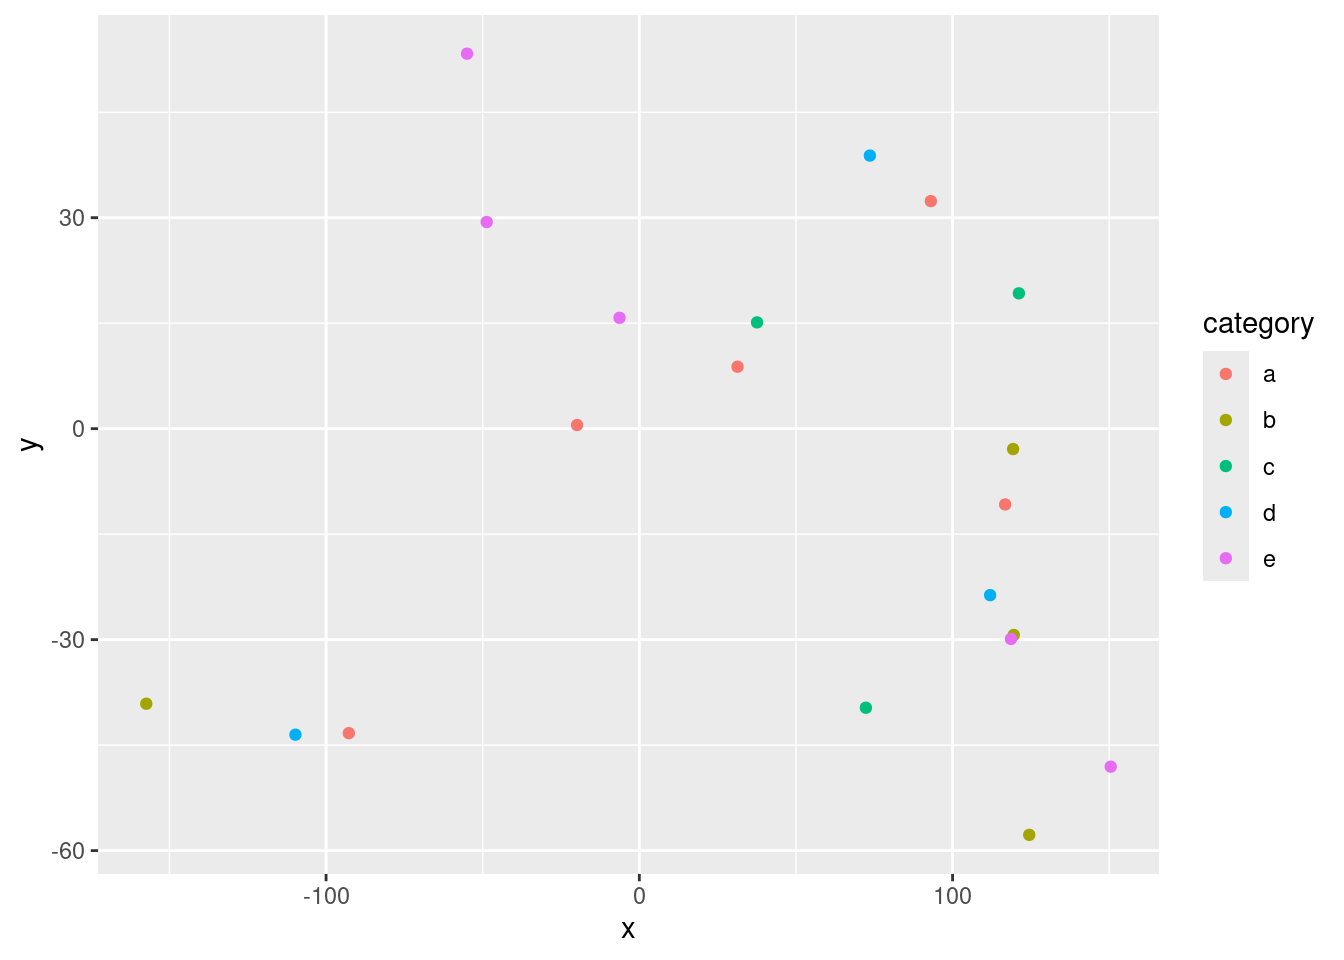
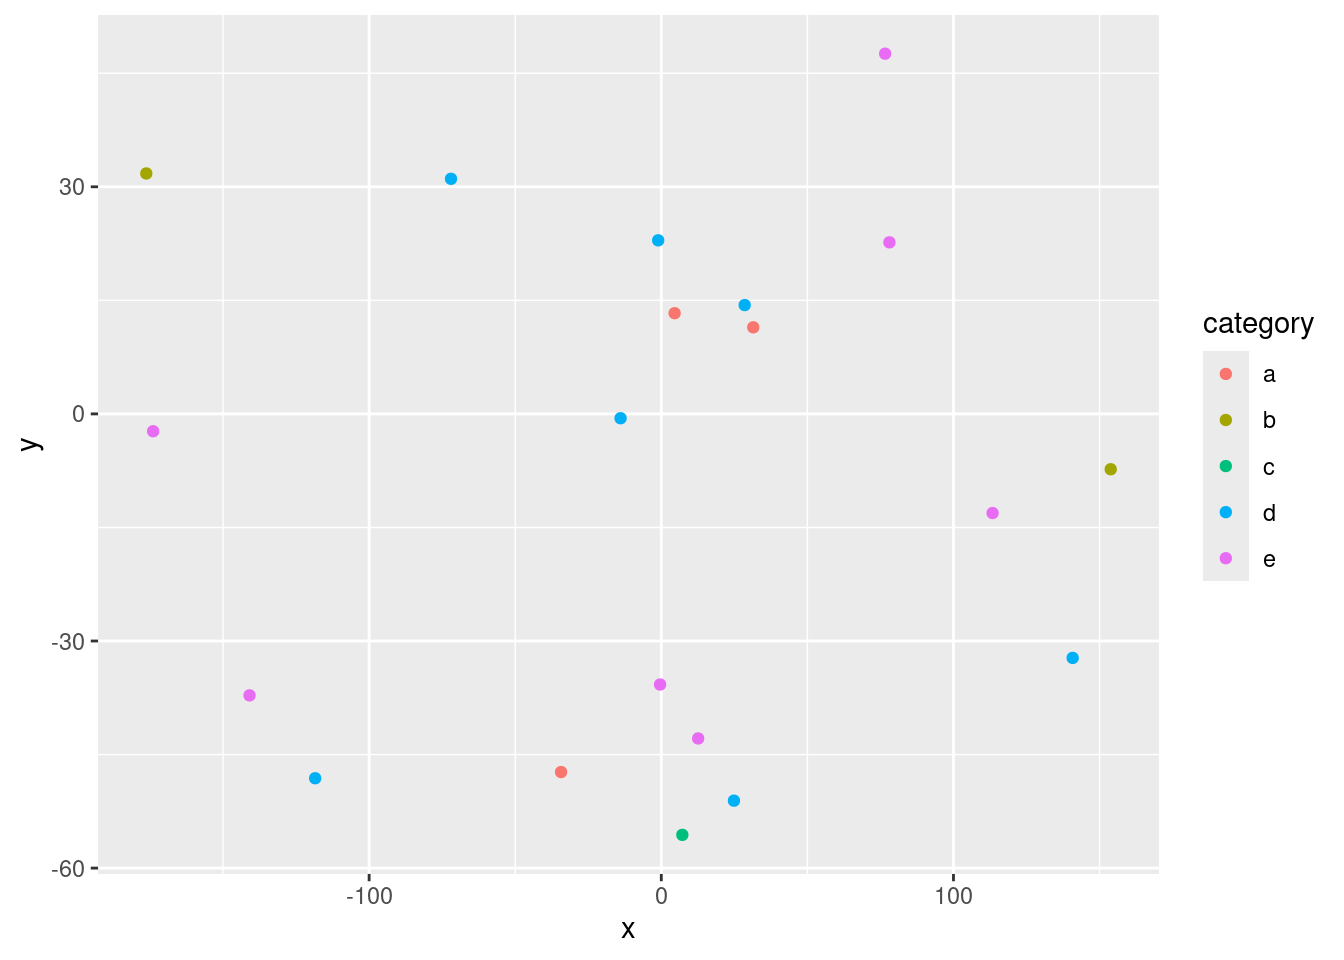
Built site for gh-pages

diff --git a/index.html b/index.html
@@ -6,10 +6,10 @@
 
 <meta name="viewport" content="width=device-width, initial-scale=1.0, user-scalable=yes">
 
-<meta name="author" content="Your name here">
-<meta name="dcterms.date" content="2024-11-06">
+<meta name="author" content="Swetha Sakhamuri">
+<meta name="dcterms.date" content="2024-11-11">
 
-<title>My Final Project Template – GEO511_FinalProject</title>
+<title>Comparing Unemployment Rates Across U.S. States During Economic Recessions – GEO511_FinalProject</title>
 <style>
 code{white-space: pre-wrap;}
 span.smallcaps{font-variant: small-caps;}
@@ -167,8 +167,7 @@ pre > code.sourceCode > span > a:first-child::before { text-decoration: underlin
 
 <header id="title-block-header" class="quarto-title-block default">
 <div class="quarto-title">
-<h1 class="title">My Final Project Template</h1>
-<p class="subtitle lead">Subtitle here if desired</p>
+<h1 class="title">Comparing Unemployment Rates Across U.S. States During Economic Recessions</h1>
 </div>
 
 
@@ -178,14 +177,14 @@ pre > code.sourceCode > span > a:first-child::before { text-decoration: underlin
     <div>
     <div class="quarto-title-meta-heading">Author</div>
     <div class="quarto-title-meta-contents">
-             <p>Your name here </p>
+             <p>Swetha Sakhamuri </p>
           </div>
   </div>
     
     <div>
     <div class="quarto-title-meta-heading">Published</div>
     <div class="quarto-title-meta-contents">
-      <p class="date">November 6, 2024</p>
+      <p class="date">November 11, 2024</p>
     </div>
   </div>
   
@@ -266,74 +265,74 @@ pre > code.sourceCode > span > a:first-child::before { text-decoration: underlin
 </thead>
 <tbody>
 <tr class="odd">
-<td style="text-align: center;">37.59</td>
-<td style="text-align: center;">15.11</td>
-<td style="text-align: center;">15.77</td>
-<td style="text-align: center;">c</td>
+<td style="text-align: center;">-176.28</td>
+<td style="text-align: center;">31.76</td>
+<td style="text-align: center;">7.90</td>
+<td style="text-align: center;">b</td>
 <td style="text-align: center;">0.04</td>
 </tr>
 <tr class="even">
-<td style="text-align: center;">150.49</td>
-<td style="text-align: center;">-48.07</td>
-<td style="text-align: center;">13.10</td>
-<td style="text-align: center;">e</td>
-<td style="text-align: center;">0.46</td>
-</tr>
-<tr class="odd">
-<td style="text-align: center;">119.54</td>
-<td style="text-align: center;">-29.34</td>
-<td style="text-align: center;">9.69</td>
-<td style="text-align: center;">b</td>
-<td style="text-align: center;">1.96</td>
-</tr>
-<tr class="even">
-<td style="text-align: center;">72.33</td>
-<td style="text-align: center;">-39.68</td>
-<td style="text-align: center;">12.56</td>
-<td style="text-align: center;">c</td>
-<td style="text-align: center;">0.68</td>
-</tr>
-<tr class="odd">
-<td style="text-align: center;">121.16</td>
-<td style="text-align: center;">19.25</td>
-<td style="text-align: center;">14.26</td>
-<td style="text-align: center;">c</td>
-<td style="text-align: center;">0.02</td>
-</tr>
-<tr class="even">
-<td style="text-align: center;">93.06</td>
-<td style="text-align: center;">32.36</td>
-<td style="text-align: center;">16.21</td>
+<td style="text-align: center;">4.56</td>
+<td style="text-align: center;">13.30</td>
+<td style="text-align: center;">6.25</td>
 <td style="text-align: center;">a</td>
-<td style="text-align: center;">1.34</td>
+<td style="text-align: center;">1.11</td>
 </tr>
 <tr class="odd">
-<td style="text-align: center;">118.63</td>
-<td style="text-align: center;">-29.91</td>
-<td style="text-align: center;">19.36</td>
-<td style="text-align: center;">e</td>
-<td style="text-align: center;">0.55</td>
-</tr>
-<tr class="even">
-<td style="text-align: center;">-19.89</td>
-<td style="text-align: center;">0.52</td>
-<td style="text-align: center;">18.02</td>
-<td style="text-align: center;">a</td>
-<td style="text-align: center;">-0.09</td>
-</tr>
-<tr class="odd">
-<td style="text-align: center;">-48.72</td>
-<td style="text-align: center;">29.39</td>
-<td style="text-align: center;">14.17</td>
-<td style="text-align: center;">e</td>
-<td style="text-align: center;">-0.74</td>
-</tr>
-<tr class="even">
-<td style="text-align: center;">-109.78</td>
-<td style="text-align: center;">-43.51</td>
-<td style="text-align: center;">16.05</td>
+<td style="text-align: center;">28.54</td>
+<td style="text-align: center;">14.38</td>
+<td style="text-align: center;">7.20</td>
 <td style="text-align: center;">d</td>
-<td style="text-align: center;">-0.21</td>
+<td style="text-align: center;">-0.93</td>
+</tr>
+<tr class="even">
+<td style="text-align: center;">-118.47</td>
+<td style="text-align: center;">-48.13</td>
+<td style="text-align: center;">14.79</td>
+<td style="text-align: center;">d</td>
+<td style="text-align: center;">-0.58</td>
+</tr>
+<tr class="odd">
+<td style="text-align: center;">78.08</td>
+<td style="text-align: center;">22.66</td>
+<td style="text-align: center;">11.01</td>
+<td style="text-align: center;">e</td>
+<td style="text-align: center;">-0.35</td>
+</tr>
+<tr class="even">
+<td style="text-align: center;">-0.42</td>
+<td style="text-align: center;">-35.75</td>
+<td style="text-align: center;">18.86</td>
+<td style="text-align: center;">e</td>
+<td style="text-align: center;">-0.35</td>
+</tr>
+<tr class="odd">
+<td style="text-align: center;">-173.93</td>
+<td style="text-align: center;">-2.29</td>
+<td style="text-align: center;">18.50</td>
+<td style="text-align: center;">e</td>
+<td style="text-align: center;">1.69</td>
+</tr>
+<tr class="even">
+<td style="text-align: center;">-1.07</td>
+<td style="text-align: center;">22.93</td>
+<td style="text-align: center;">14.34</td>
+<td style="text-align: center;">d</td>
+<td style="text-align: center;">-0.06</td>
+</tr>
+<tr class="odd">
+<td style="text-align: center;">-34.30</td>
+<td style="text-align: center;">-47.31</td>
+<td style="text-align: center;">14.90</td>
+<td style="text-align: center;">a</td>
+<td style="text-align: center;">-0.63</td>
+</tr>
+<tr class="even">
+<td style="text-align: center;">12.61</td>
+<td style="text-align: center;">-42.87</td>
+<td style="text-align: center;">6.74</td>
+<td style="text-align: center;">e</td>
+<td style="text-align: center;">-0.82</td>
 </tr>
 </tbody>
 </table>
@@ -355,8 +354,8 @@ pre > code.sourceCode > span > a:first-child::before { text-decoration: underlin
 <span id="cb5-4"><a href="#cb5-4" aria-hidden="true" tabindex="-1"></a>  <span class="fu">addPopups</span>(<span class="sc">~</span>x[<span class="dv">2</span>], <span class="sc">~</span>y[<span class="dv">2</span>], <span class="st">"Random popup"</span>)</span>
 <span id="cb5-5"><a href="#cb5-5" aria-hidden="true" tabindex="-1"></a>m  <span class="co"># a map with the default OSM tile layer</span></span></code><button title="Copy to Clipboard" class="code-copy-button"><i class="bi"></i></button></pre></div>
 <div class="cell-output-display">
-<div class="leaflet html-widget html-fill-item" id="htmlwidget-bbe6ffa9a1049d748211" style="width:100%;height:325px;"></div>
-<script type="application/json" data-for="htmlwidget-bbe6ffa9a1049d748211">{"x":{"options":{"crs":{"crsClass":"L.CRS.EPSG3857","code":null,"proj4def":null,"projectedBounds":null,"options":{}}},"calls":[{"method":"addTiles","args":["https://{s}.tile.openstreetmap.org/{z}/{x}/{y}.png",null,null,{"minZoom":0,"maxZoom":18,"tileSize":256,"subdomains":"abc","errorTileUrl":"","tms":false,"noWrap":false,"zoomOffset":0,"zoomReverse":false,"opacity":1,"zIndex":1,"detectRetina":false,"attribution":"&copy; <a href=\"https://openstreetmap.org/copyright/\">OpenStreetMap<\/a>,  <a href=\"https://opendatacommons.org/licenses/odbl/\">ODbL<\/a>"}]},{"method":"addCircleMarkers","args":[[15.10993536561728,-48.06656073778868,-29.33788790367544,-39.68395683914423,19.24610540270805,32.35853313468397,-29.90508050657809,0.5187126249074936,29.38594518229365,-43.5135320853442,38.8320323266089,8.809488695114851,15.76741084456444,-10.77996748499572,-57.76436311192811,-2.898594103753567,-43.30172566697001,-39.11614148877561,53.32503352314234,-23.67119958624244],[37.5852922629565,150.4861529264599,119.5380512438715,72.32871810905635,121.1609531566501,93.05984032340348,118.6318447161466,-19.88816611468792,-48.72300015762448,-109.7815835103393,73.59345006756485,31.35417262092233,-6.322231851518154,116.781377568841,124.4692703895271,119.3201016448438,-92.73617648519576,-157.3911190778017,-55.00099676661193,111.9839021656662],[15.77261005295441,13.10039540287107,9.685365565819666,12.56128217210062,14.25906562595628,16.2070850818418,19.36443598940969,18.01569579867646,14.17184511316009,16.05102470028214,7.827789282891899,15.87897410965525,5.39779506623745,14.01435973122716,8.860516084823757,19.00504677556455,10.72762174298987,10.92059776536189,6.688445116160437,16.40069150715135],null,null,{"interactive":true,"className":"","stroke":true,"color":["c","e","b","c","c","a","e","a","e","d","d","a","e","a","b","b","a","b","e","d"],"weight":5,"opacity":0.5,"fill":true,"fillColor":["c","e","b","c","c","a","e","a","e","d","d","a","e","a","b","b","a","b","e","d"],"fillOpacity":0.2},null,null,null,null,null,{"interactive":false,"permanent":false,"direction":"auto","opacity":1,"offset":[0,0],"textsize":"10px","textOnly":false,"className":"","sticky":true},null]},{"method":"addPopups","args":[-48.06656073778868,150.4861529264599,"Random popup",null,null,{"maxWidth":300,"minWidth":50,"autoPan":true,"keepInView":false,"closeButton":true,"className":""}]}],"limits":{"lat":[-57.76436311192811,53.32503352314234],"lng":[-157.3911190778017,150.4861529264599]}},"evals":[],"jsHooks":[]}</script>
+<div class="leaflet html-widget html-fill-item" id="htmlwidget-d61dc6a2be07eb56e08c" style="width:100%;height:325px;"></div>
+<script type="application/json" data-for="htmlwidget-d61dc6a2be07eb56e08c">{"x":{"options":{"crs":{"crsClass":"L.CRS.EPSG3857","code":null,"proj4def":null,"projectedBounds":null,"options":{}}},"calls":[{"method":"addTiles","args":["https://{s}.tile.openstreetmap.org/{z}/{x}/{y}.png",null,null,{"minZoom":0,"maxZoom":18,"tileSize":256,"subdomains":"abc","errorTileUrl":"","tms":false,"noWrap":false,"zoomOffset":0,"zoomReverse":false,"opacity":1,"zIndex":1,"detectRetina":false,"attribution":"&copy; <a href=\"https://openstreetmap.org/copyright/\">OpenStreetMap<\/a>,  <a href=\"https://opendatacommons.org/licenses/odbl/\">ODbL<\/a>"}]},{"method":"addCircleMarkers","args":[[31.76191890612245,13.3029961399734,14.37612061388791,-48.12995416112244,22.6606157887727,-35.74894621968269,-2.291976856067777,22.928123222664,-47.31113338842988,-42.87123293615878,-55.60895822010934,-37.18081631697714,-13.09968028217554,31.05464385822415,-51.09273405745625,-7.311647236347198,47.58616668172181,11.43845007754862,-32.23209053277969,-0.5714384838938713],[-176.2766691762954,4.558083470910788,28.5420092381537,-118.4746175631881,78.08351305313408,-0.4162616562098265,-173.9268659055233,-1.067150132730603,-34.30435166694224,12.61348435655236,7.20016454346478,-140.9373810421675,113.390019312501,-71.97661480866373,24.86289747990668,153.8249035924673,76.61893280223012,31.47816904820502,140.7980051636696,-13.93952306360006],[7.898215311579406,6.24948448734358,7.197982127545401,14.78739154641517,11.00905966595747,18.86326365638524,18.50093286600895,14.33500166633166,14.89683895255439,6.740612694993615,12.05836374196224,19.8508822824806,6.687324228696525,5.239038645522669,13.27083531999961,19.60964723606594,19.70093050273135,14.58236970938742,12.94192609027959,18.57848386163823],null,null,{"interactive":true,"className":"","stroke":true,"color":["b","a","d","d","e","e","e","d","a","e","c","e","e","d","d","b","e","a","d","d"],"weight":5,"opacity":0.5,"fill":true,"fillColor":["b","a","d","d","e","e","e","d","a","e","c","e","e","d","d","b","e","a","d","d"],"fillOpacity":0.2},null,null,null,null,null,{"interactive":false,"permanent":false,"direction":"auto","opacity":1,"offset":[0,0],"textsize":"10px","textOnly":false,"className":"","sticky":true},null]},{"method":"addPopups","args":[13.3029961399734,4.558083470910788,"Random popup",null,null,{"maxWidth":300,"minWidth":50,"autoPan":true,"keepInView":false,"closeButton":true,"className":""}]}],"limits":{"lat":[-55.60895822010934,47.58616668172181],"lng":[-176.2766691762954,153.8249035924673]}},"evals":[],"jsHooks":[]}</script>
 <p>Map of completely random data</p>
 </div>
 </div>
@@ -379,8 +378,8 @@ pre > code.sourceCode > span > a:first-child::before { text-decoration: underlin
 <span id="cb7-2"><a href="#cb7-2" aria-hidden="true" tabindex="-1"></a><span class="fu">dygraph</span>(nhtemp, <span class="at">main =</span> <span class="st">"New Haven Temperatures"</span>) <span class="sc">|&gt;</span> </span>
 <span id="cb7-3"><a href="#cb7-3" aria-hidden="true" tabindex="-1"></a>  <span class="fu">dyRangeSelector</span>(<span class="at">dateWindow =</span> <span class="fu">c</span>(<span class="st">"1920-01-01"</span>, <span class="st">"1960-01-01"</span>)) </span></code><button title="Copy to Clipboard" class="code-copy-button"><i class="bi"></i></button></pre></div>
 <div class="cell-output-display">
-<div class="dygraphs html-widget html-fill-item" id="htmlwidget-65deb66ed89df903e80d" style="width:100%;height:464px;"></div>
-<script type="application/json" data-for="htmlwidget-65deb66ed89df903e80d">{"x":{"attrs":{"title":"New Haven Temperatures","labels":["year","V1"],"legend":"auto","retainDateWindow":false,"axes":{"x":{"pixelsPerLabel":60}},"showRangeSelector":true,"dateWindow":["1920-01-01T00:00:00.000Z","1960-01-01T00:00:00.000Z"],"rangeSelectorHeight":40,"rangeSelectorPlotFillColor":" #A7B1C4","rangeSelectorPlotStrokeColor":"#808FAB","interactionModel":"Dygraph.Interaction.defaultModel"},"scale":"yearly","annotations":[],"shadings":[],"events":[],"format":"date","data":[["1912-01-01T00:00:00.000Z","1913-01-01T00:00:00.000Z","1914-01-01T00:00:00.000Z","1915-01-01T00:00:00.000Z","1916-01-01T00:00:00.000Z","1917-01-01T00:00:00.000Z","1918-01-01T00:00:00.000Z","1919-01-01T00:00:00.000Z","1920-01-01T00:00:00.000Z","1921-01-01T00:00:00.000Z","1922-01-01T00:00:00.000Z","1923-01-01T00:00:00.000Z","1924-01-01T00:00:00.000Z","1925-01-01T00:00:00.000Z","1926-01-01T00:00:00.000Z","1927-01-01T00:00:00.000Z","1928-01-01T00:00:00.000Z","1929-01-01T00:00:00.000Z","1930-01-01T00:00:00.000Z","1931-01-01T00:00:00.000Z","1932-01-01T00:00:00.000Z","1933-01-01T00:00:00.000Z","1934-01-01T00:00:00.000Z","1935-01-01T00:00:00.000Z","1936-01-01T00:00:00.000Z","1937-01-01T00:00:00.000Z","1938-01-01T00:00:00.000Z","1939-01-01T00:00:00.000Z","1940-01-01T00:00:00.000Z","1941-01-01T00:00:00.000Z","1942-01-01T00:00:00.000Z","1943-01-01T00:00:00.000Z","1944-01-01T00:00:00.000Z","1945-01-01T00:00:00.000Z","1946-01-01T00:00:00.000Z","1947-01-01T00:00:00.000Z","1948-01-01T00:00:00.000Z","1949-01-01T00:00:00.000Z","1950-01-01T00:00:00.000Z","1951-01-01T00:00:00.000Z","1952-01-01T00:00:00.000Z","1953-01-01T00:00:00.000Z","1954-01-01T00:00:00.000Z","1955-01-01T00:00:00.000Z","1956-01-01T00:00:00.000Z","1957-01-01T00:00:00.000Z","1958-01-01T00:00:00.000Z","1959-01-01T00:00:00.000Z","1960-01-01T00:00:00.000Z","1961-01-01T00:00:00.000Z","1962-01-01T00:00:00.000Z","1963-01-01T00:00:00.000Z","1964-01-01T00:00:00.000Z","1965-01-01T00:00:00.000Z","1966-01-01T00:00:00.000Z","1967-01-01T00:00:00.000Z","1968-01-01T00:00:00.000Z","1969-01-01T00:00:00.000Z","1970-01-01T00:00:00.000Z","1971-01-01T00:00:00.000Z"],[49.9,52.3,49.4,51.1,49.4,47.9,49.8,50.9,49.3,51.9,50.8,49.6,49.3,50.6,48.4,50.7,50.9,50.6,51.5,52.8,51.8,51.1,49.8,50.2,50.4,51.6,51.8,50.9,48.8,51.7,51,50.6,51.7,51.5,52.1,51.3,51,54,51.4,52.7,53.1,54.6,52,52,50.9,52.6,50.2,52.6,51.6,51.9,50.5,50.9,51.7,51.4,51.7,50.8,51.9,51.8,51.9,53]]},"evals":["attrs.interactionModel"],"jsHooks":[]}</script>
+<div class="dygraphs html-widget html-fill-item" id="htmlwidget-24e14539c765432b93f8" style="width:100%;height:464px;"></div>
+<script type="application/json" data-for="htmlwidget-24e14539c765432b93f8">{"x":{"attrs":{"title":"New Haven Temperatures","labels":["year","V1"],"legend":"auto","retainDateWindow":false,"axes":{"x":{"pixelsPerLabel":60}},"showRangeSelector":true,"dateWindow":["1920-01-01T00:00:00.000Z","1960-01-01T00:00:00.000Z"],"rangeSelectorHeight":40,"rangeSelectorPlotFillColor":" #A7B1C4","rangeSelectorPlotStrokeColor":"#808FAB","interactionModel":"Dygraph.Interaction.defaultModel"},"scale":"yearly","annotations":[],"shadings":[],"events":[],"format":"date","data":[["1912-01-01T00:00:00.000Z","1913-01-01T00:00:00.000Z","1914-01-01T00:00:00.000Z","1915-01-01T00:00:00.000Z","1916-01-01T00:00:00.000Z","1917-01-01T00:00:00.000Z","1918-01-01T00:00:00.000Z","1919-01-01T00:00:00.000Z","1920-01-01T00:00:00.000Z","1921-01-01T00:00:00.000Z","1922-01-01T00:00:00.000Z","1923-01-01T00:00:00.000Z","1924-01-01T00:00:00.000Z","1925-01-01T00:00:00.000Z","1926-01-01T00:00:00.000Z","1927-01-01T00:00:00.000Z","1928-01-01T00:00:00.000Z","1929-01-01T00:00:00.000Z","1930-01-01T00:00:00.000Z","1931-01-01T00:00:00.000Z","1932-01-01T00:00:00.000Z","1933-01-01T00:00:00.000Z","1934-01-01T00:00:00.000Z","1935-01-01T00:00:00.000Z","1936-01-01T00:00:00.000Z","1937-01-01T00:00:00.000Z","1938-01-01T00:00:00.000Z","1939-01-01T00:00:00.000Z","1940-01-01T00:00:00.000Z","1941-01-01T00:00:00.000Z","1942-01-01T00:00:00.000Z","1943-01-01T00:00:00.000Z","1944-01-01T00:00:00.000Z","1945-01-01T00:00:00.000Z","1946-01-01T00:00:00.000Z","1947-01-01T00:00:00.000Z","1948-01-01T00:00:00.000Z","1949-01-01T00:00:00.000Z","1950-01-01T00:00:00.000Z","1951-01-01T00:00:00.000Z","1952-01-01T00:00:00.000Z","1953-01-01T00:00:00.000Z","1954-01-01T00:00:00.000Z","1955-01-01T00:00:00.000Z","1956-01-01T00:00:00.000Z","1957-01-01T00:00:00.000Z","1958-01-01T00:00:00.000Z","1959-01-01T00:00:00.000Z","1960-01-01T00:00:00.000Z","1961-01-01T00:00:00.000Z","1962-01-01T00:00:00.000Z","1963-01-01T00:00:00.000Z","1964-01-01T00:00:00.000Z","1965-01-01T00:00:00.000Z","1966-01-01T00:00:00.000Z","1967-01-01T00:00:00.000Z","1968-01-01T00:00:00.000Z","1969-01-01T00:00:00.000Z","1970-01-01T00:00:00.000Z","1971-01-01T00:00:00.000Z"],[49.9,52.3,49.4,51.1,49.4,47.9,49.8,50.9,49.3,51.9,50.8,49.6,49.3,50.6,48.4,50.7,50.9,50.6,51.5,52.8,51.8,51.1,49.8,50.2,50.4,51.6,51.8,50.9,48.8,51.7,51,50.6,51.7,51.5,52.1,51.3,51,54,51.4,52.7,53.1,54.6,52,52,50.9,52.6,50.2,52.6,51.6,51.9,50.5,50.9,51.7,51.4,51.7,50.8,51.9,51.8,51.9,53]]},"evals":["attrs.interactionModel"],"jsHooks":[]}</script>
 </div>
 </div>
 </section>
